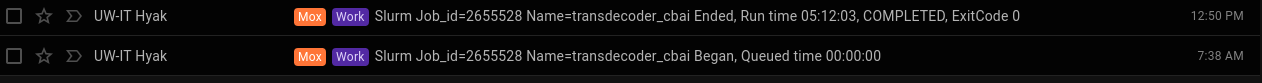
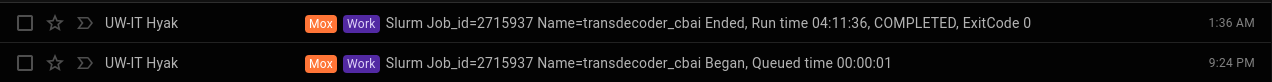
add updated runtime from rerun with fixed fastqs

diff --git a/_posts/2020/2020-05-27-TransDecoder---C.bairdi-Transcriptome-v1.7-on-Mox.md b/_posts/2020/2020-05-27-TransDecoder---C.bairdi-Transcriptome-v1.7-on-Mox.md
@@ -132,7 +132,7 @@ mkdir "${pfam_out_dir}"
 
 #### RESULTS
 
-Took about 5hrs:
+Took about 4hrs:
 
 ![cbai v1.7 transdecoder runtime](https://github.com/RobertsLab/sams-notebook/blob/master/images/screencaps/20200527_cbai_transdecoder_transcriptome-v1.7_runtime.png?raw=true)
 
